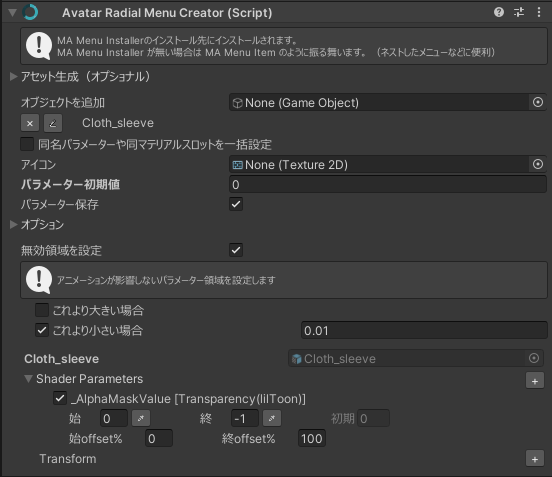
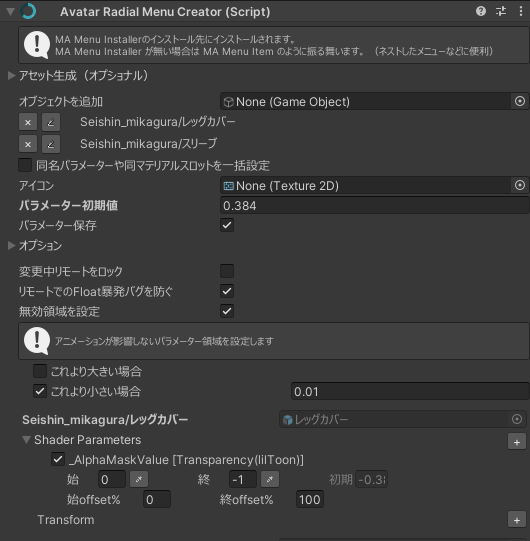
リモートでのFloat暴発バグを防ぐ doc

diff --git a/doc~/site/src/content/docs/references/radial.md b/doc~/site/src/content/docs/references/radial.md
@@ -12,7 +12,7 @@ Avatar Radial Menu Creatorコンポーネント特有の設定です。
 
 パラメーターはFloat型で、8bitを消費します。
 
-ただし、[Physbone自動リセット](/usecases/components/#physbone自動リセット)が有効である場合、Bool型1ビットを追加で消費します。
+ただし、[Physbone自動リセット](/usecases/components/#physbone自動リセット)・[変更中リモートをロック](#変更中リモートをロック)・[リモートでのFloat暴発バグを防ぐ](#リモートでのfloat暴発バグを防ぐ)のいずれかが有効である場合、Bool型1ビットを追加で消費します。
 
 ## 項目の設定
 
@@ -24,6 +24,23 @@ Avatar Radial Menu Creatorコンポーネント特有の設定です。
 | 終offset% | 終点がパラメーター全体の何%地点に置かれるかを設定します。 |
 
 詳しくは[胸のサイズを変えたい 【無段階制御】/制御の設定](/guides/radial/#制御の設定)をご覧下さい。
+
+## 変更中リモートをロック
+
+RadialMenuを開いている間、リモートでは変更が反映されなくなります。
+
+このオプションが有効な場合、下記の「リモートでのFloat暴発バグを防ぐ」が自動的に満たされます。
+
+## リモートでのFloat暴発バグを防ぐ
+
+VRChatでRadialPuppetを開いた瞬間に、リモートでFloatパラメーターが一瞬1になるバグがあります。
+
+これははるか2021年から存在するバグで、未だに修正されていません。
+（[関連Canny: [BUG] Float on a radial open on wrong value remotely | Voters | VRChat](https://feedback.vrchat.com/avatar-30/p/bug-float-on-a-radial-open-on-wrong-value-remotely)）
+
+「リモートでのFloat暴発バグを防ぐ」はこの問題への応急的な対応として、RadialPuppetを開いてから0.3秒間値を固定する機能です。
+
+なおメニューを開いた状態でRadialPuppetを開いた時のバグはこのオプションで防止できますが、RadialPuppetを開いたままリングメニュー自体を閉じて、再度開いた時もこのバグが発生します。これはこの対処では防げません。
 
 ## 無効領域を設定
 
